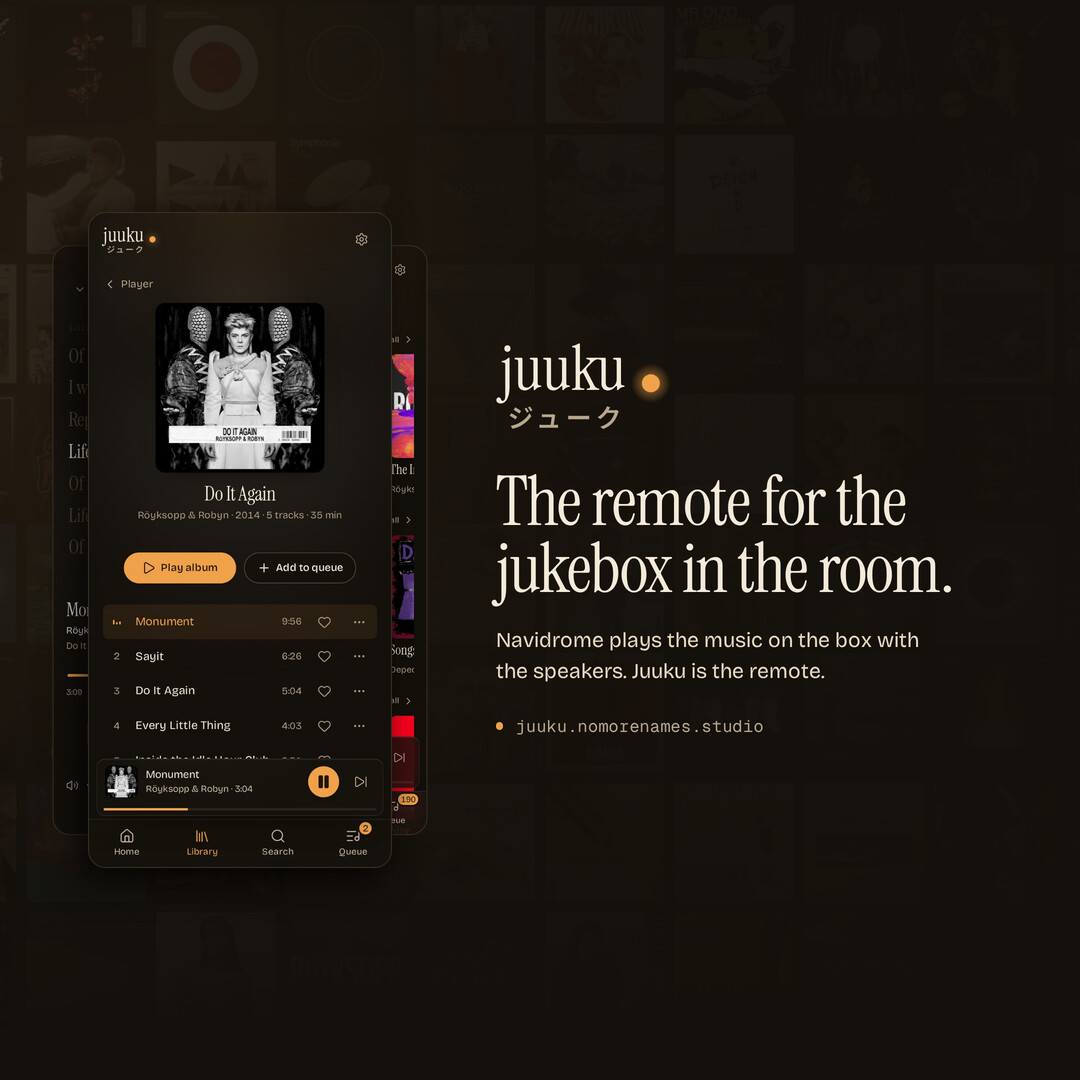
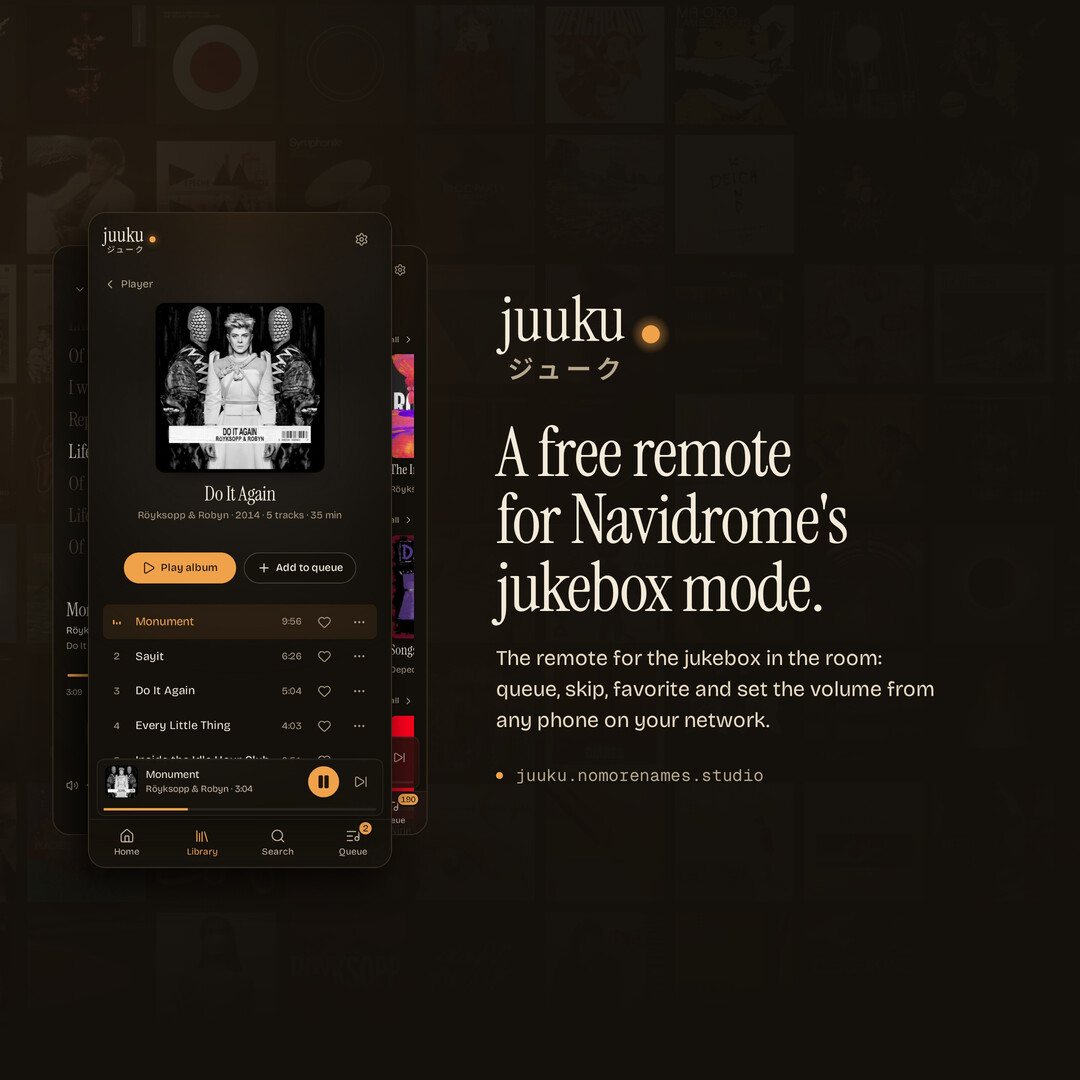
site: the social card says what the page says
Re-rendered from docs/social/card.html with the hero's own copy — "A free remote for
Navidrome's jukebox mode" over "the remote for the jukebox in the room: queue, skip,
favorite and set the volume from any phone on your network" — because a link preview
still selling the old one-liner was the only surface left out of sync.

The generator stays out of the repo as before; only the three JPGs land, plus the alt
text on the page and in the README now describing what is actually in the picture.

Changed region(s): [[0.4583, 0.275, 0.8861, 0.7333]]

diff --git a/site/index.html b/site/index.html
@@ -14,7 +14,7 @@
     <meta property="og:image" content="https://juuku.nomorenames.studio/social-og.jpg" />
     <meta property="og:image:width" content="1200" />
     <meta property="og:image:height" content="630" />
-    <meta property="og:image:alt" content="Juuku's album screen on a phone beside the line “The remote for the jukebox in the room.”" />
+    <meta property="og:image:alt" content="Juuku's wordmark and the line “A free remote for Navidrome's jukebox mode”, with the player screen on a phone beside it." />
     <meta name="twitter:card" content="summary_large_image" />
     <meta name="theme-color" content="#14100b" />
     <link rel="icon" href="favicon.svg" type="image/svg+xml" />

diff --git a/README.md b/README.md
@@ -6,7 +6,7 @@
 [![Node 22](https://img.shields.io/badge/Node-22-3fb950?style=for-the-badge)](server/)
 [![Build](https://github.com/nomorenamesstudio/juuku/actions/workflows/test.yml/badge.svg?branch=main)](https://github.com/nomorenamesstudio/juuku/actions/workflows/test.yml)
 
-![Juuku: the wordmark, the line “The remote for the jukebox in the room.”, and the album, library and lyrics screens on phones](docs/social/og-1200x630.jpg)
+![Juuku: the wordmark, the line “A free remote for Navidrome's jukebox mode”, and the player screen on a phone](docs/social/og-1200x630.jpg)
 
 A free, open-source remote for [Navidrome](https://www.navidrome.org/)'s jukebox
 mode that turns any browser on your network into the remote for the machine with the
